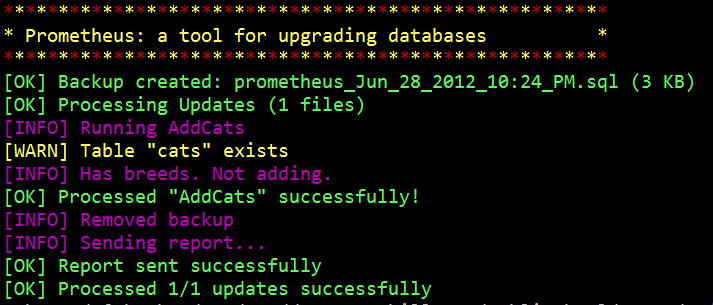
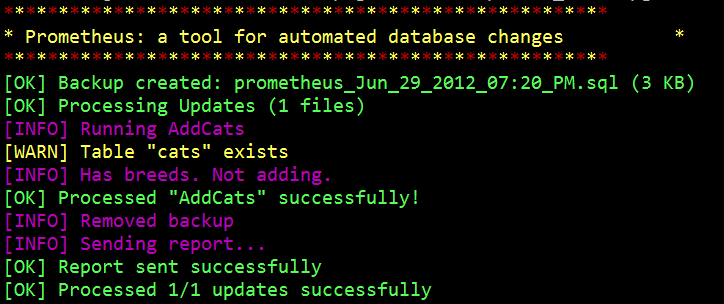
Updated README Updated Screenshot

diff --git a/src/Prometheus/Prometheus.php b/src/Prometheus/Prometheus.php
@@ -262,7 +262,7 @@ class Prometheus
     function printIntroText()
     {
         $this->printBorder();
-        $this->console->log(sprintf('* Prometheus: a tool for upgrading databases %s *', 
+        $this->console->log(sprintf('* Prometheus: a tool for automated database changes %s *', 
                             str_repeat(' ', 8)),
                             'yellow');
         $this->printBorder();
